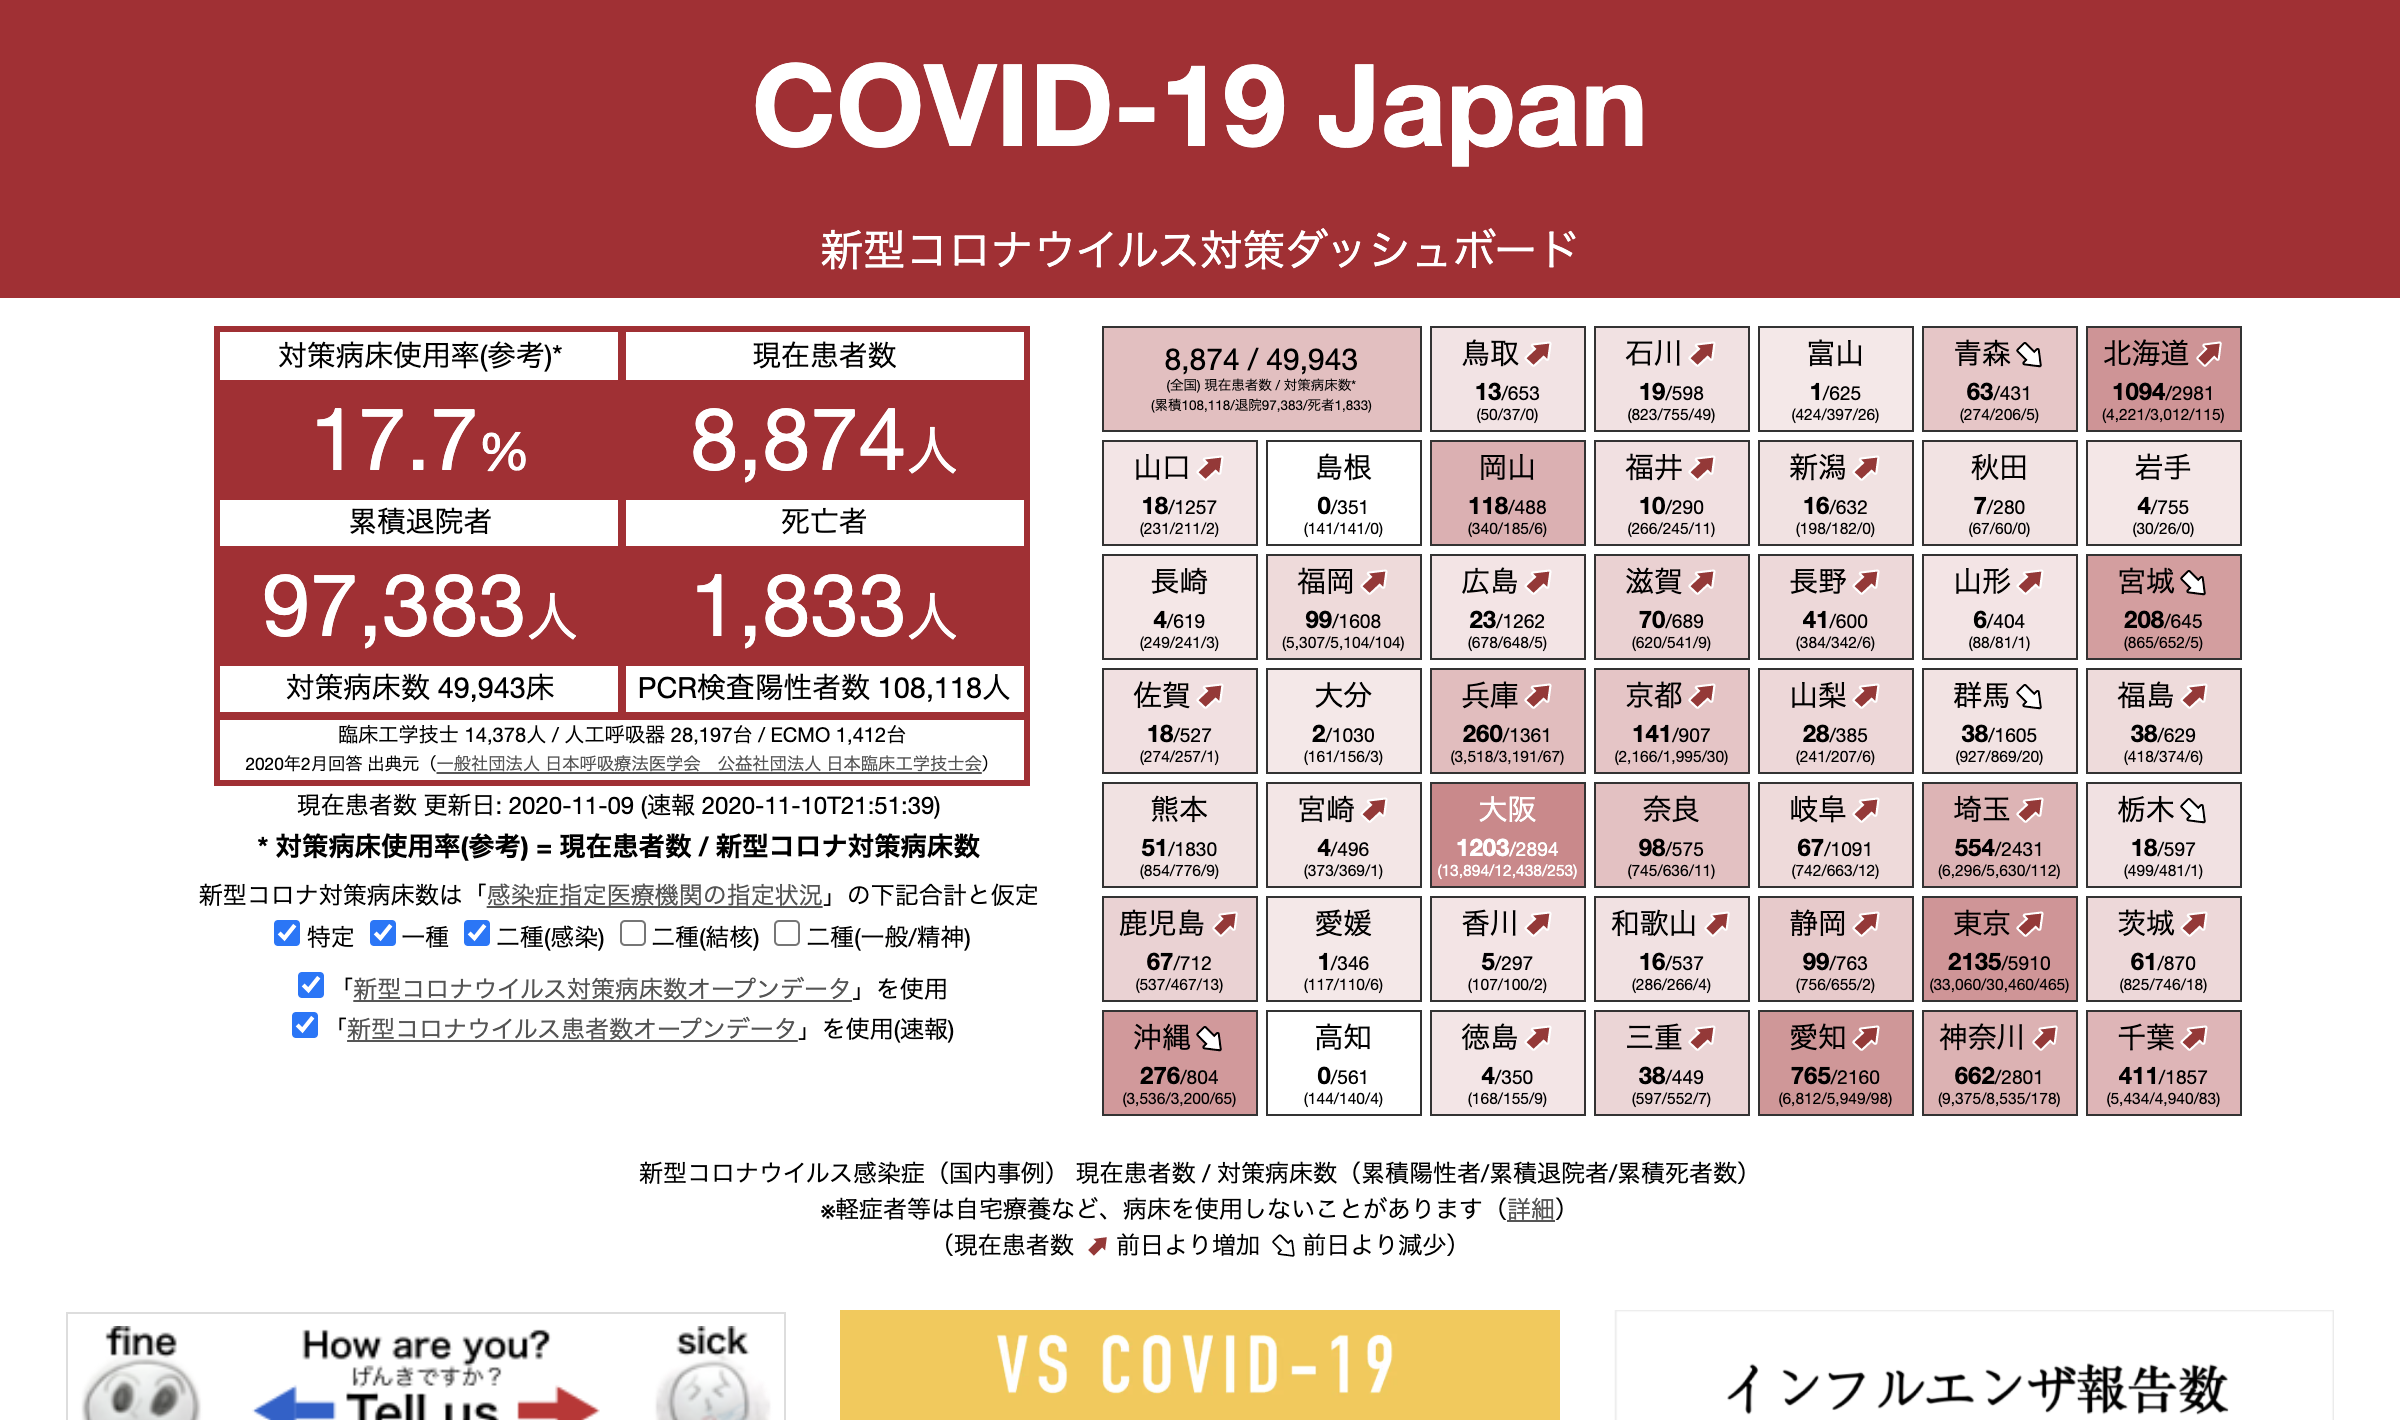
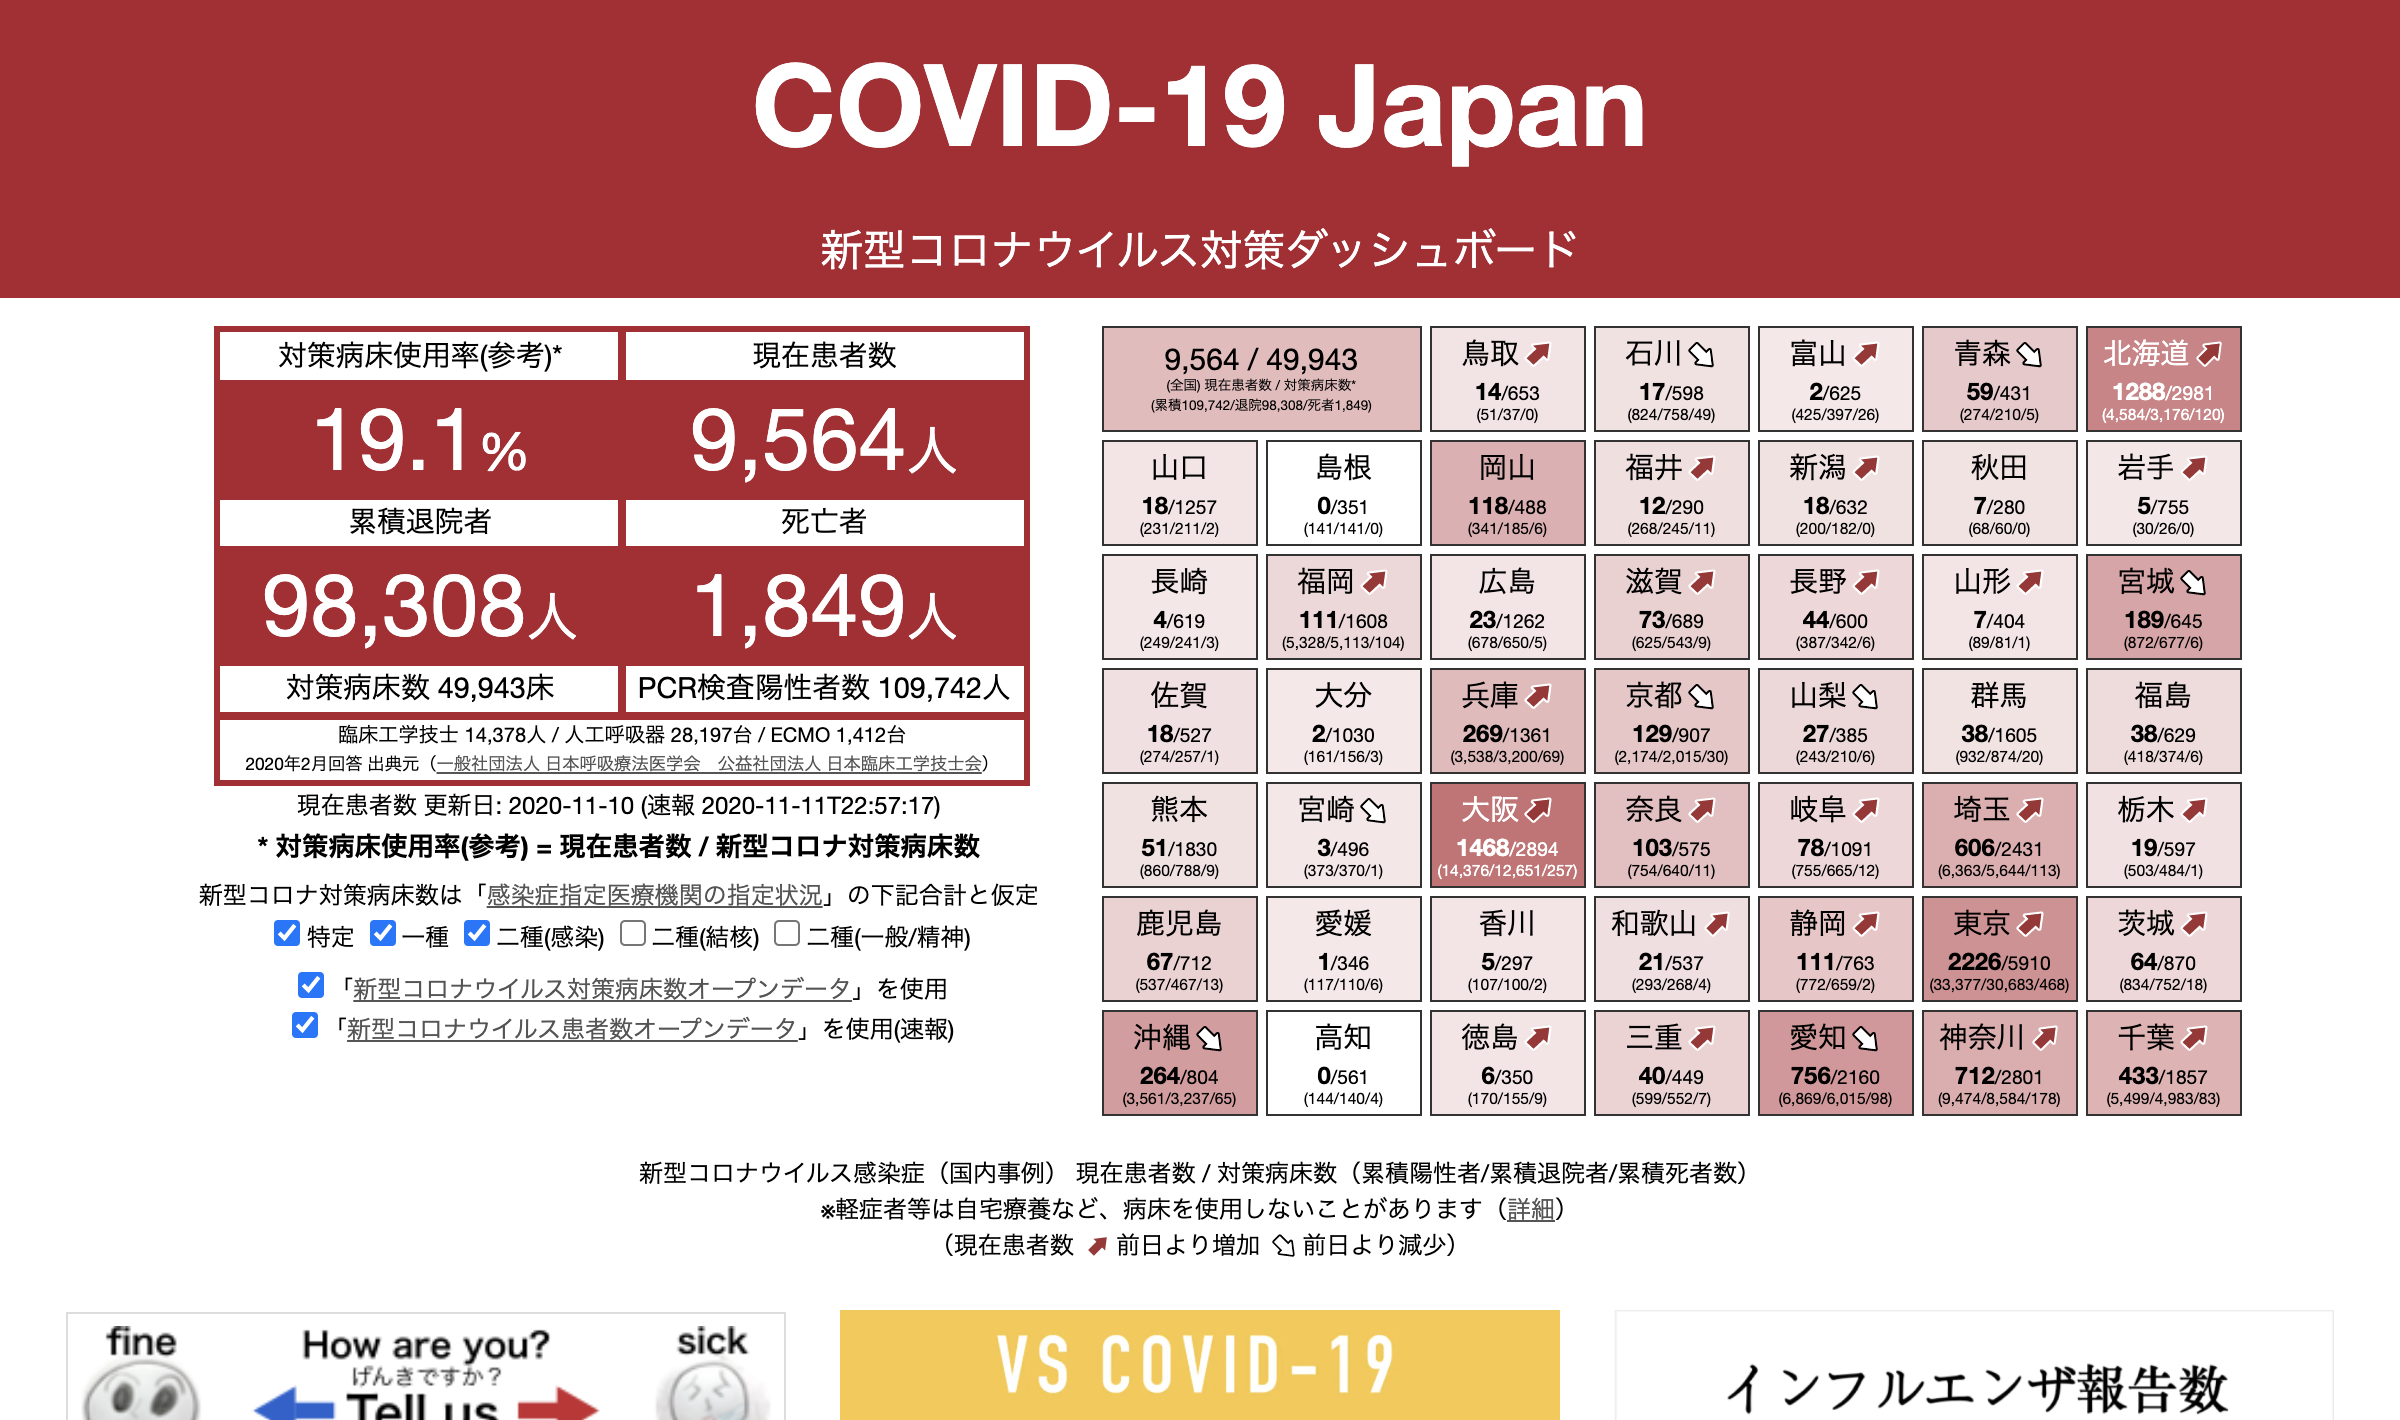
update data

diff --git a/index.html b/index.html
@@ -19,8 +19,8 @@ gtag('config', 'UA-162141832-1')
 <link rel="apple-touch-icon" href="covid19japan-leargeicon.png"/>
 <meta name="msapplication-square310x310logo" content="covid19japan-leargeicon.png"/>
 <meta name="twitter:card" content="summary_large_image"/>
-<meta property="og:image"  content="https://www.stopcovid19.jp/ogp/covid19japan_ogp_20201110224044.png"/>
-<meta name="twitter:image" content="https://www.stopcovid19.jp/ogp/covid19japan_ogp_20201110224044.png"/>
+<meta property="og:image"  content="https://www.stopcovid19.jp/ogp/covid19japan_ogp_20201111232909.png"/>
+<meta name="twitter:image" content="https://www.stopcovid19.jp/ogp/covid19japan_ogp_20201111232909.png"/>
 
 <meta name="viewport" content="width=device-width, initial-scale=1.0"/>
 <meta name="format-detection" content="telephone=no"/>
